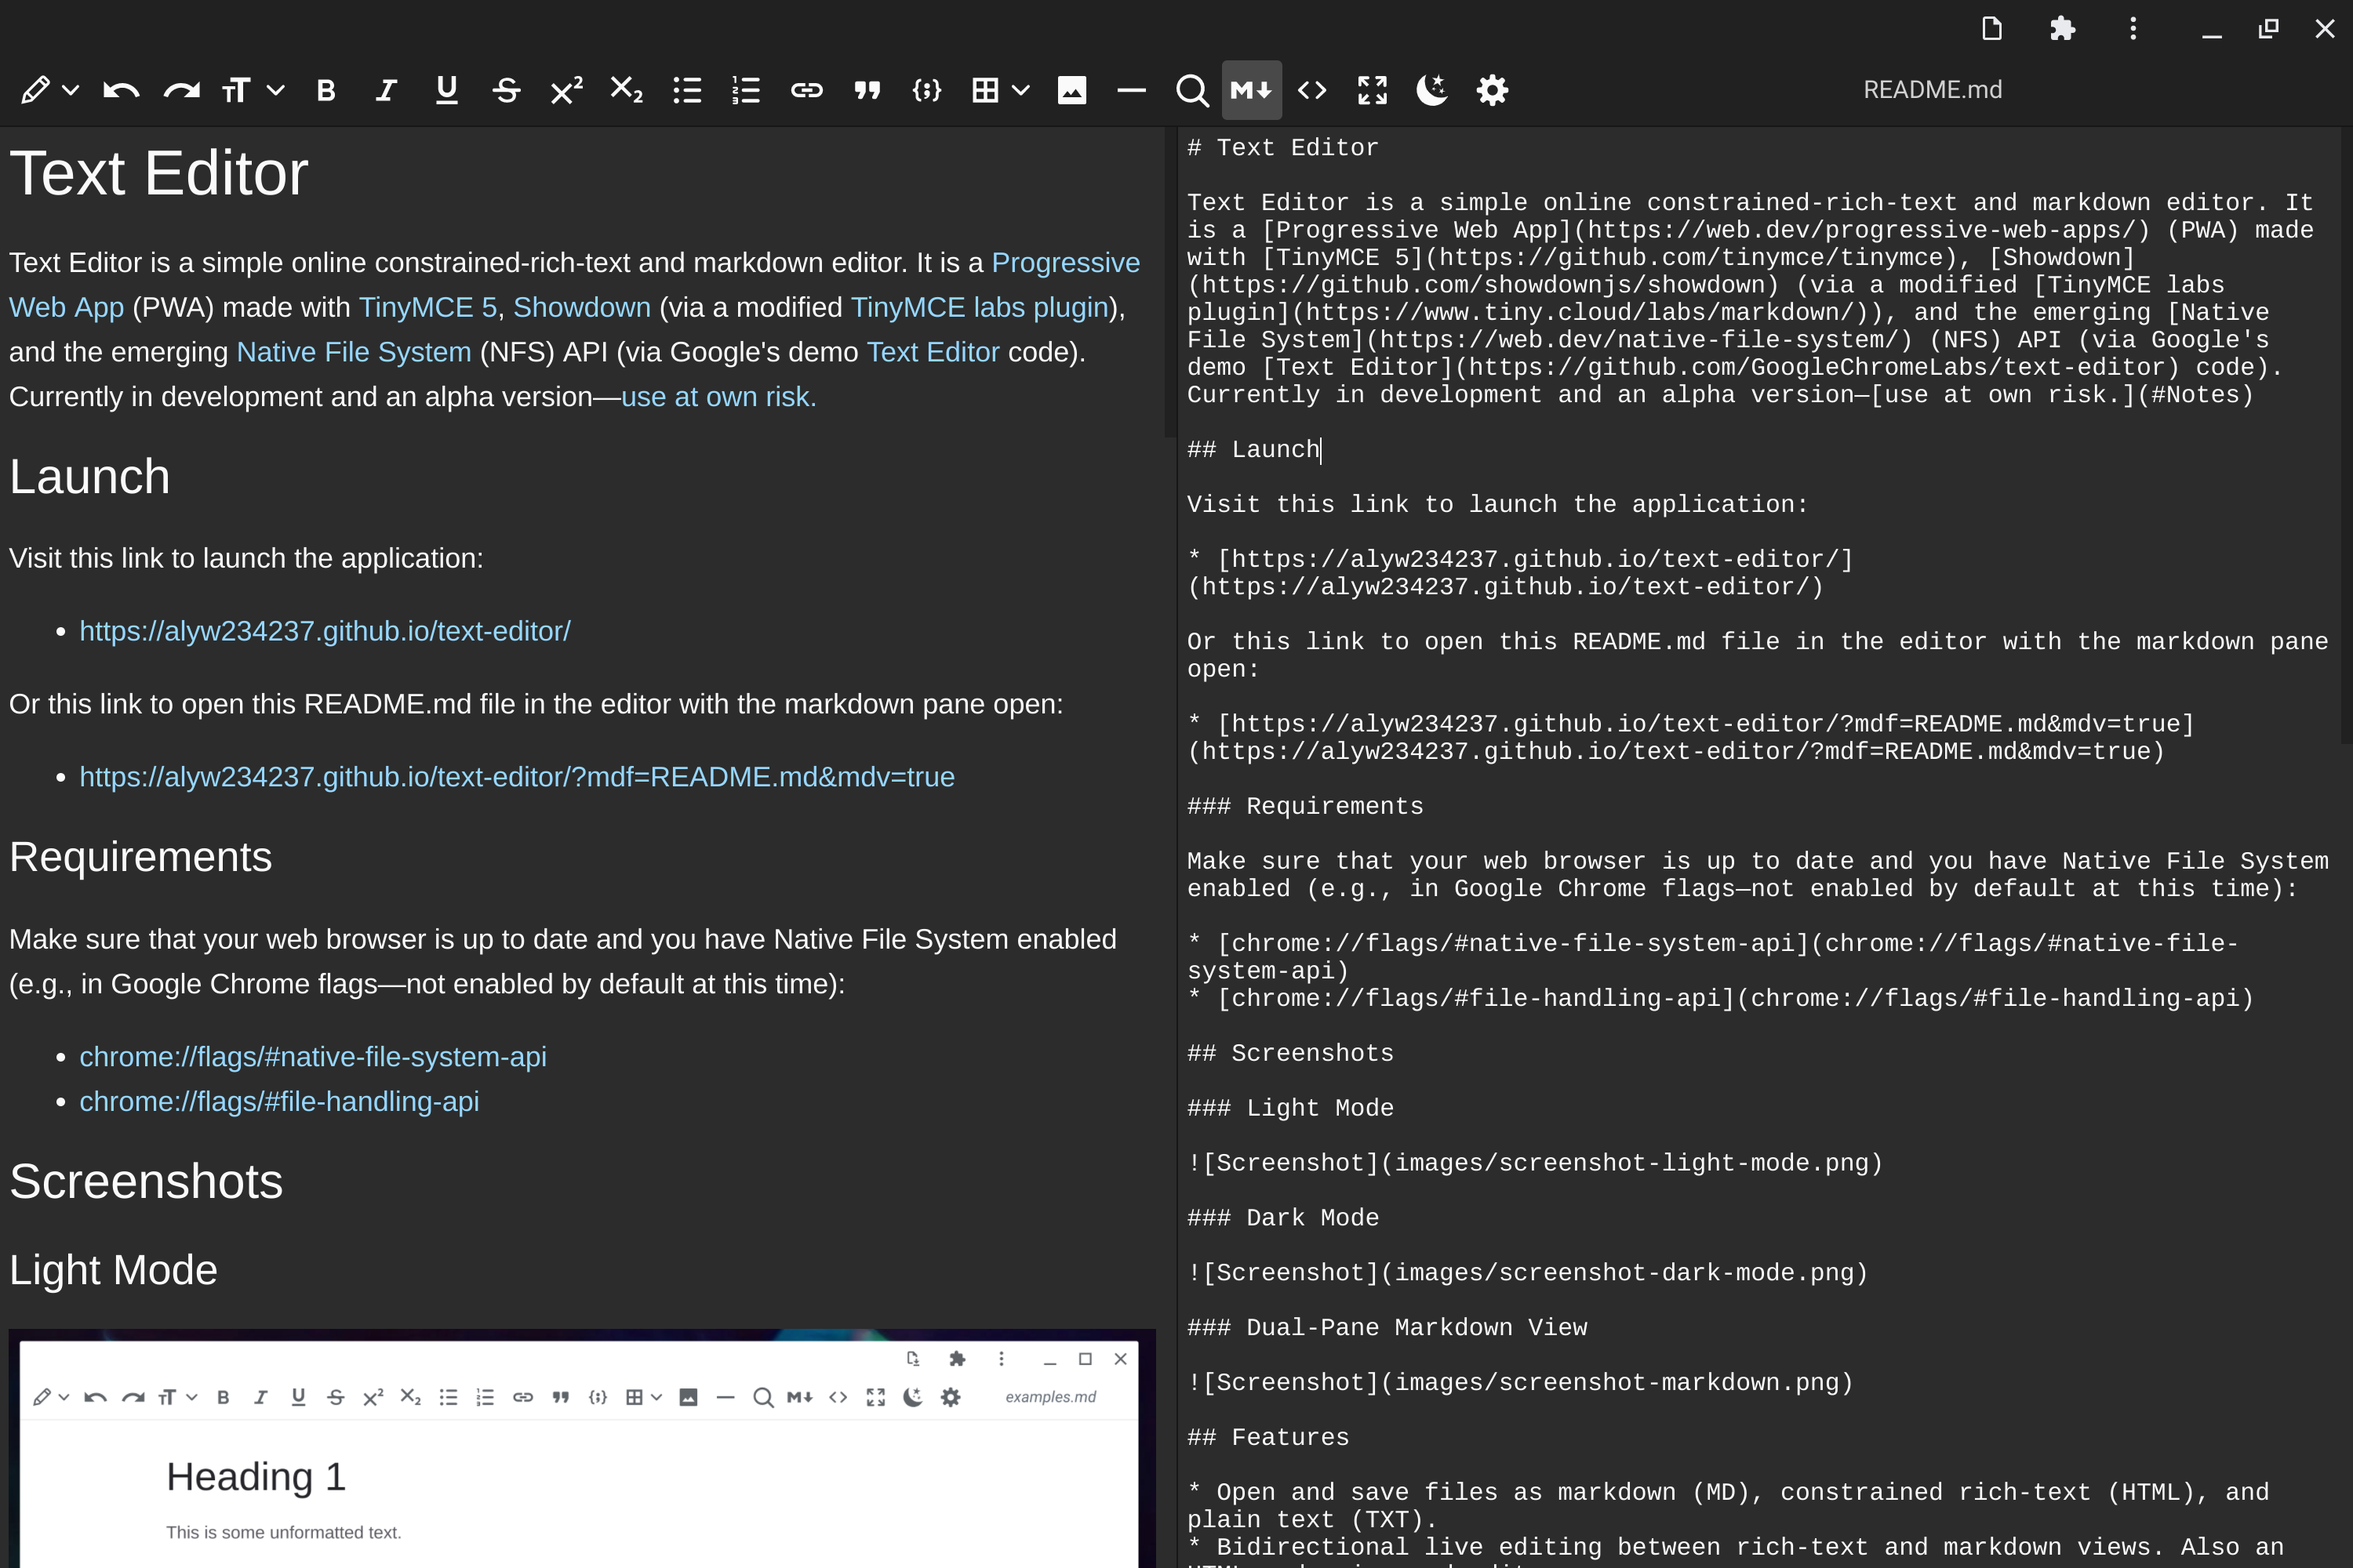
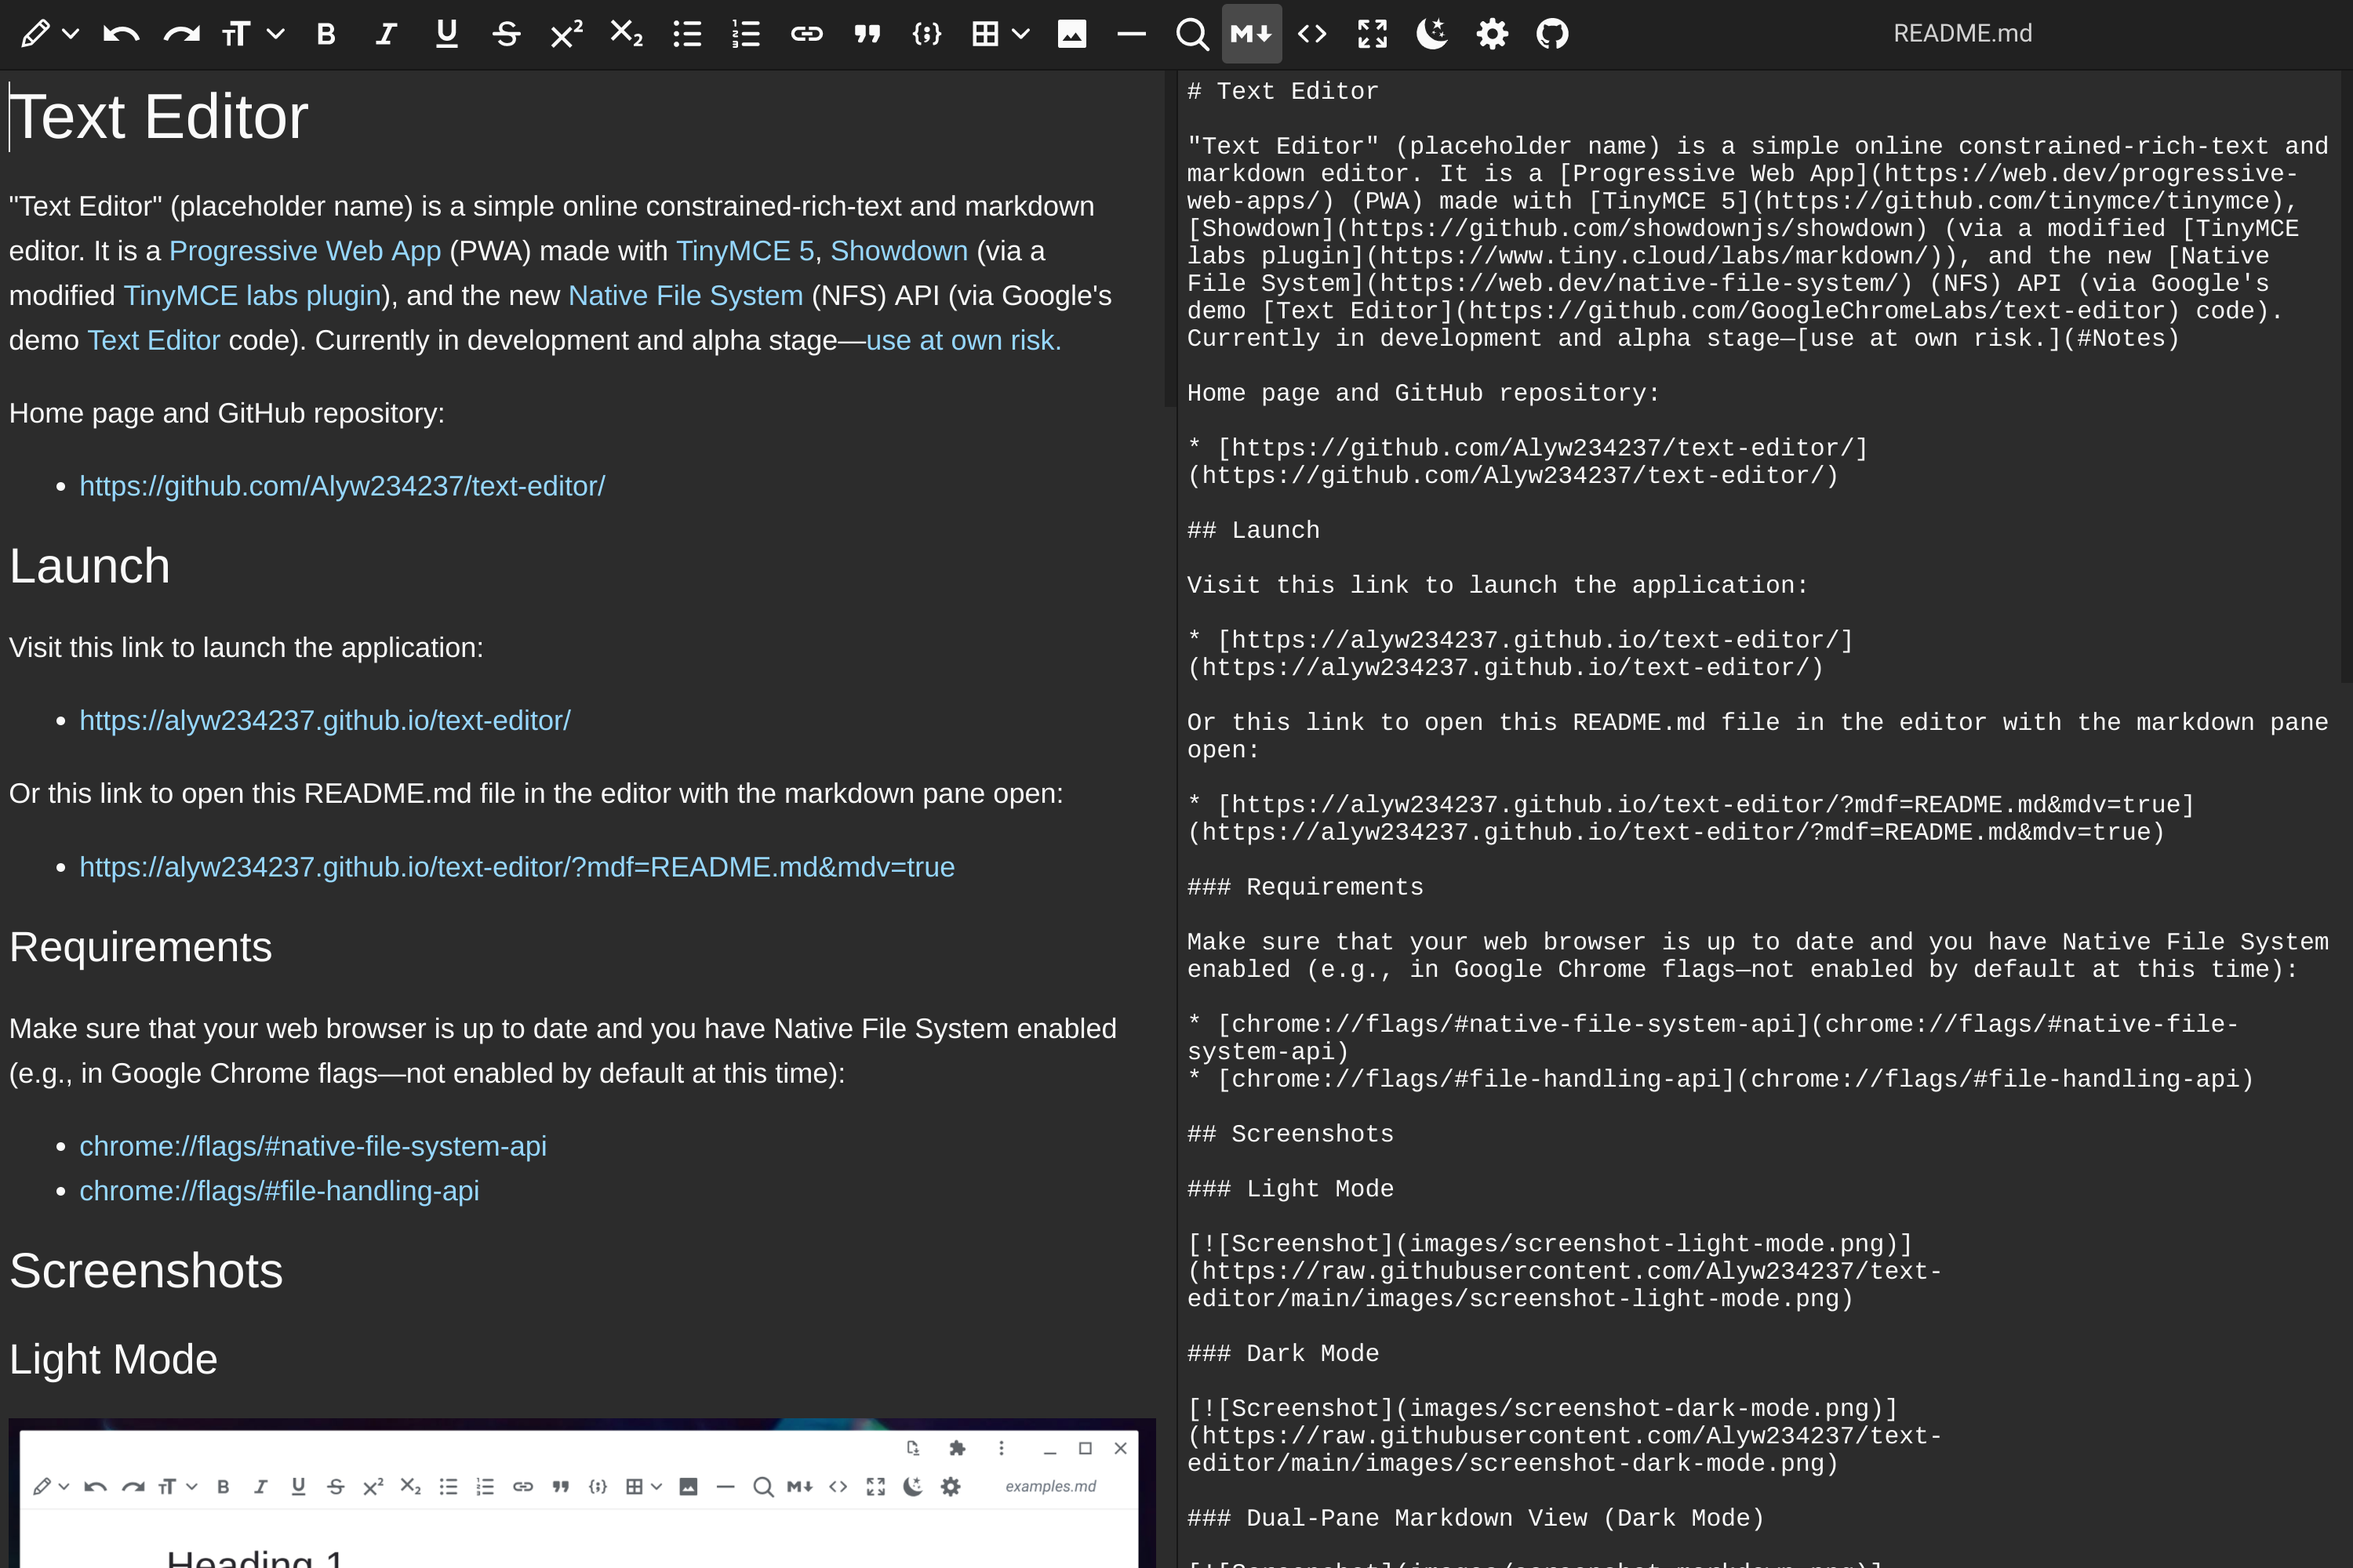
.

diff --git a/index.js b/index.js
@@ -577,7 +577,7 @@ tinymce.init({
       tooltip: 'GitHub',
       icon: 'github',
       onAction: function () {
-        if(confirm("This will open the GitHub repo in a new tab. Continue?") == false) {
+        if(confirm("This will open the GitHub home page/repository in a new tab. Continue?") == false) {
           return;
         } else {
           window.open('https://github.com/Alyw234237/text-editor/', '_blank');
